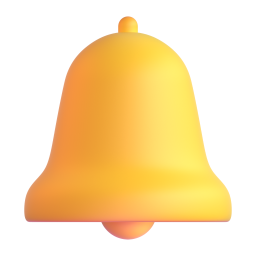
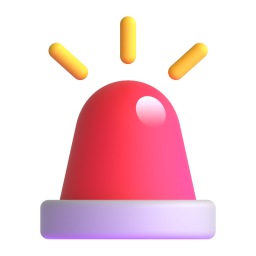
feat: add smart street lights map layer with clustering

diff --git a/src/features/map/components/layers/SmartStreetLightsLayer.tsx b/src/features/map/components/layers/SmartStreetLightsLayer.tsx
@@ -1,0 +1,95 @@
+"use client";
+import { useEffect, useState } from "react";
+import { useMap, useMapEvents, Marker } from "react-leaflet";
+import MarkerClusterGroup from "react-leaflet-cluster";
+import L from "leaflet";
+import "./cluster-styles.css";
+
+interface SmartStreetLightFeature {
+  type: "Feature";
+  geometry: {
+    type: "Point";
+    coordinates: [number, number];
+  };
+  properties: {
+    id: number;
+    lamp_type: string;
+    road_address: string;
+    always_on: boolean;
+    has_cctv: boolean;
+    has_wifi: boolean;
+    has_emergency_call: boolean;
+  };
+}
+
+interface SmartStreetLightCollection {
+  type: "FeatureCollection";
+  features: SmartStreetLightFeature[];
+}
+
+const streetLightIcon = L.icon({
+  iconUrl: "/icon-street-light.png",
+  iconSize: [32, 32],
+  iconAnchor: [16, 16],
+  popupAnchor: [0, -16],
+});
+
+export default function SmartStreetLightsLayer() {
+  const map = useMap();
+  const [lights, setLights] = useState<SmartStreetLightCollection | null>(null);
+
+  function fetchLights() {
+    if (map.getZoom() < 14) {
+      setLights(null);
+      return;
+    }
+
+    const bounds = map.getBounds();
+    const bbox = [
+      bounds.getWest(),
+      bounds.getSouth(),
+      bounds.getEast(),
+      bounds.getNorth(),
+    ].join(",");
+
+    fetch(
+      `${process.env.NEXT_PUBLIC_BACKEND_API_URL}/api/safety/smart-street-lights?bbox=${bbox}`,
+    )
+      .then((res) => res.json())
+      .then((data) => setLights(data));
+  }
+
+  useEffect(() => {
+    fetchLights();
+  }, []);
+
+  useMapEvents({ moveend: fetchLights, zoomend: fetchLights });
+
+  if (!lights) return null;
+
+  return (
+    <MarkerClusterGroup
+      maxClusterRadius={80}
+      disableClusteringAtZoom={17}
+      spiderfyOnMaxZoom={false}
+      iconCreateFunction={(cluster: { getChildCount: () => number }) =>
+        L.divIcon({
+          html: `<div class="cluster light-cluster">${cluster.getChildCount()}</div>`,
+          className: "",
+          iconSize: [36, 36],
+        })
+      }
+    >
+      {lights.features.map((feature, index) => (
+        <Marker
+          key={index}
+          position={[
+            feature.geometry.coordinates[1],
+            feature.geometry.coordinates[0],
+          ]}
+          icon={streetLightIcon}
+        />
+      ))}
+    </MarkerClusterGroup>
+  );
+}

diff --git a/src/features/map/components/layers/cluster-styles.css b/src/features/map/components/layers/cluster-styles.css
@@ -33,3 +33,9 @@
   width: 36px;
   height: 36px;
 }
+
+.light-cluster {
+  background: #d69e2e;
+  width: 36px;
+  height: 36px;
+}

diff --git a/src/app/globals.css b/src/app/globals.css
@@ -24,3 +24,7 @@ body {
   color: var(--foreground);
   font-family: Arial, Helvetica, sans-serif;
 }
+
+.maplibregl-canvas {
+  filter: saturate(0.4) brightness(1.05);
+}

diff --git a/src/features/map/components/Map.tsx b/src/features/map/components/Map.tsx
@@ -10,6 +10,7 @@ import SafeReturnRouteLayer from "./layers/SafetyReturnRouterLayer";
 import DeliveryBoxesLayer from "./layers/DeliveryBoxesLayer";
 import EmergencyBellLayer from "./layers/EmergencyBellLayer";
 import SafeStoresLayer from "./layers/SafeStoresLayer";
+import SmartStreetLightsLayer from "./layers/SmartStreetLightsLayer";
 
 export default function Map() {
   return (
@@ -29,6 +30,7 @@ export default function Map() {
       <DeliveryBoxesLayer />
       <EmergencyBellLayer />
       <SafeStoresLayer />
+      <SmartStreetLightsLayer />
       {/* Filter */}
       <MapFilter />
     </MapContainer>